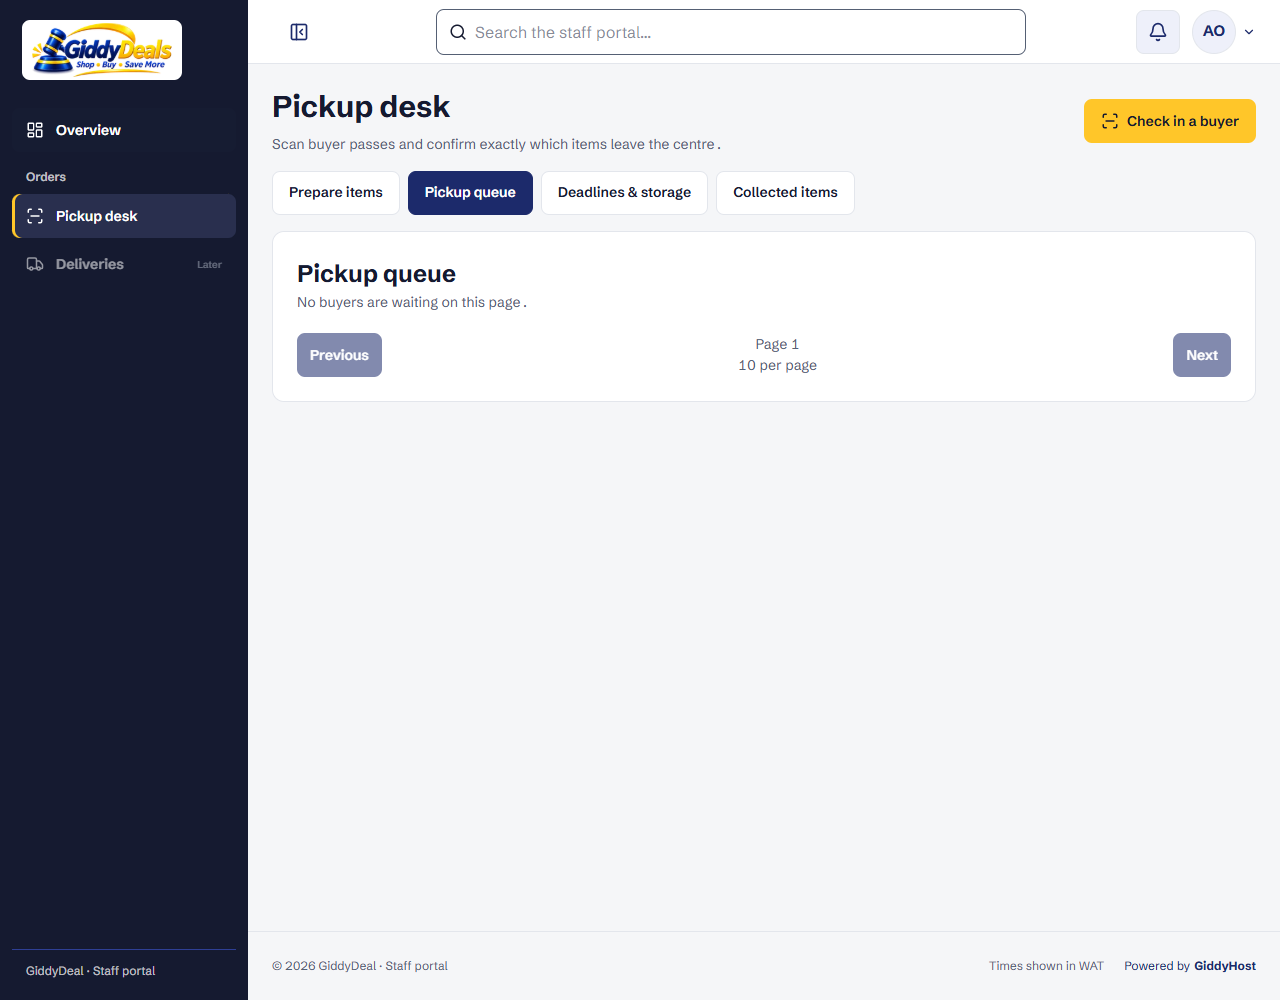
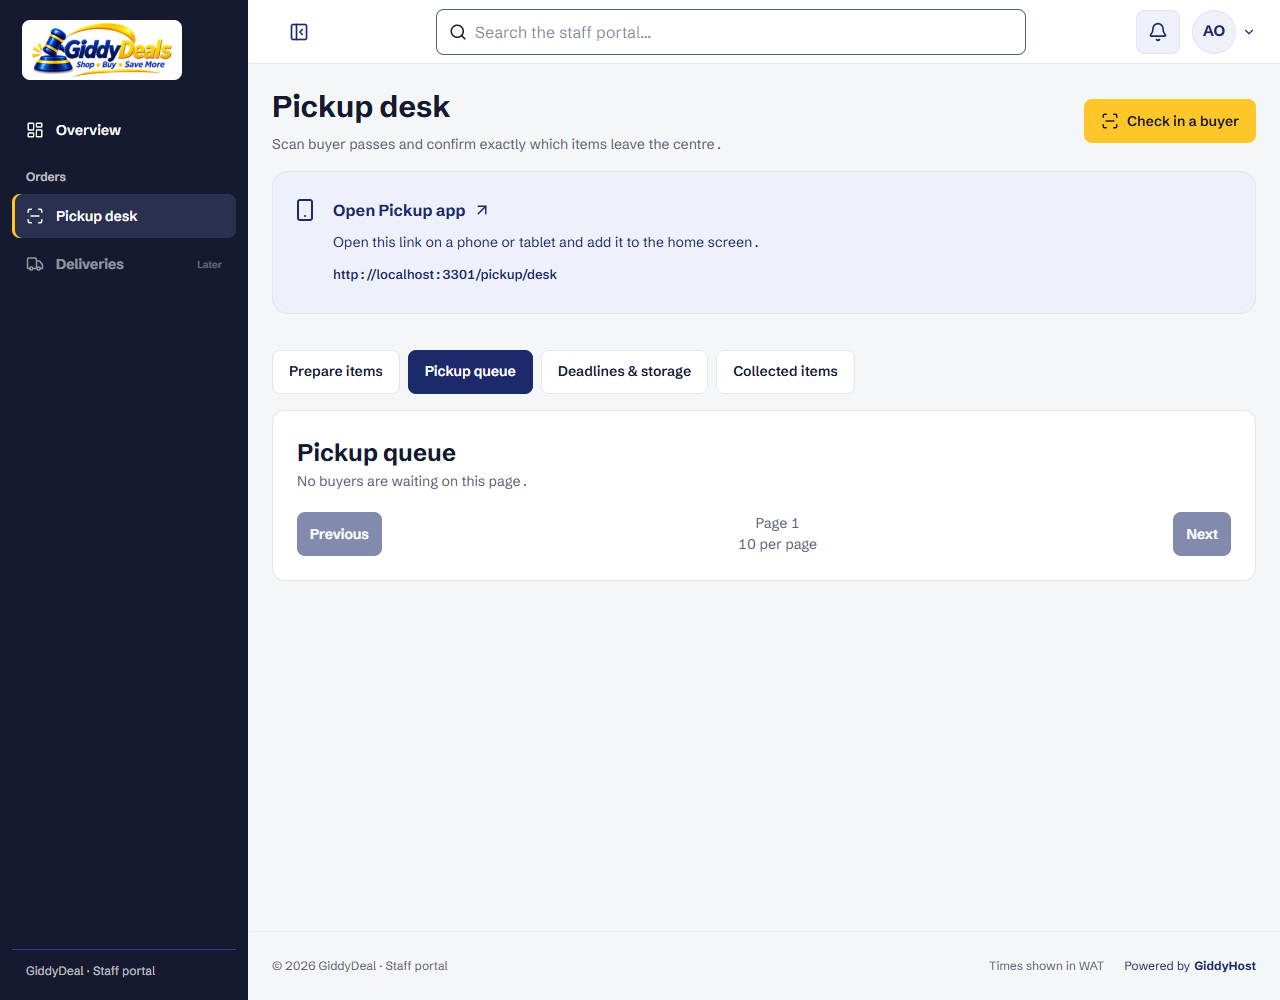
feat(admin): show pickup app link on the pickup desk

diff --git a/packages/ui/admin/pickup-app.css b/packages/ui/admin/pickup-app.css
@@ -1,4 +1,53 @@
 @layer components {
+  .lv-pickup-app-entry {
+    display: flex;
+    gap: 16px;
+    padding: 16px 20px;
+    margin-bottom: 20px;
+    border: 1px solid var(--color-line);
+    border-radius: var(--radius-sheet);
+    background: var(--color-indigo-50);
+    color: var(--color-indigo-900);
+  }
+  .lv-pickup-app-entry > svg {
+    flex-shrink: 0;
+    margin-top: 10px;
+  }
+  .lv-pickup-app-entry > div {
+    min-width: 0;
+  }
+  .lv-pickup-app-entry a {
+    display: inline-flex;
+    align-items: center;
+    gap: 8px;
+    min-height: 44px;
+    font-weight: 700;
+    text-decoration: none;
+    border-radius: var(--radius-control);
+    transition:
+      color 150ms ease,
+      background-color 150ms ease;
+  }
+  .lv-pickup-app-entry a:hover {
+    background: var(--color-indigo-900);
+    color: var(--color-surface);
+  }
+  .lv-pickup-app-entry a:focus-visible {
+    outline: 2px solid var(--color-indigo-700);
+    outline-offset: 3px;
+  }
+  .lv-pickup-app-entry p {
+    margin: 0;
+    font-size: 14px;
+  }
+  .lv-pickup-app-entry .lv-pickup-app-address {
+    display: flex;
+    width: fit-content;
+    max-width: 100%;
+    overflow-wrap: anywhere;
+    font-size: 13px;
+    font-weight: 600;
+  }
   .lv-pickup-app {
     max-width: 800px;
     margin: 0 auto;

diff --git a/packages/ui/admin/pickup-app-link.tsx b/packages/ui/admin/pickup-app-link.tsx
@@ -1,0 +1,27 @@
+'use client';
+import { useEffect, useState } from 'react';
+import { ArrowUpRight, Smartphone } from 'lucide-react';
+
+export function PickupAppLink() {
+  const [address, setAddress] = useState('/pickup/desk');
+  useEffect(() => {
+    setAddress(new URL('/pickup/desk', window.location.origin).href);
+  }, []);
+  return (
+    <aside className="lv-pickup-app-entry" aria-label="Pickup app for phones">
+      <Smartphone size={24} aria-hidden="true" />
+      <div>
+        <a href="/pickup/desk" target="_blank" rel="noopener noreferrer">
+          Open Pickup app <ArrowUpRight size={18} aria-hidden="true" />
+          <span className="sr-only"> (opens in a new tab)</span>
+        </a>
+        <p>
+          Open this link on a phone or tablet and add it to the home screen.
+        </p>
+        <a className="lv-pickup-app-address" href="/pickup/desk">
+          {address}
+        </a>
+      </div>
+    </aside>
+  );
+}

diff --git a/tests/e2e/staff-check-in-dialog.spec.ts b/tests/e2e/staff-check-in-dialog.spec.ts
@@ -326,6 +326,18 @@ for (const width of [360, 768, 1280])
     await expect(
       page.getByRole('heading', { name: 'Pickup queue', exact: true }),
     ).toBeVisible();
+    const appEntry = page.getByRole('complementary', {
+      name: 'Pickup app for phones',
+    });
+    await expect(
+      appEntry.getByRole('link', { name: /Open Pickup app/ }),
+    ).toHaveAttribute('href', '/pickup/desk');
+    await expect(
+      appEntry.getByRole('link', {
+        name: new URL('/pickup/desk', url).href,
+        exact: true,
+      }),
+    ).toBeVisible();
     await expect(
       page.getByRole('heading', { name: 'Check in a buyer', exact: true }),
     ).not.toBeVisible();

diff --git a/apps/admin/app/pickup-arrivals.tsx b/apps/admin/app/pickup-arrivals.tsx
@@ -15,6 +15,7 @@ import { Dialog } from '@auction-ng/ui/web/dialog';
 import { CollectionHistory } from './collection-history';
 import { StaffPickupStorage } from './pickup-storage';
 import { PickupPrepare } from './pickup-prepare';
+import { PickupAppLink } from '@auction-ng/ui/admin/pickup-app-link';
 import {
   WalletNotice,
   WalletPagination,
@@ -44,6 +45,7 @@ export function PickupArrivals(props: {
   ] as const;
   return (
     <>
+      <PickupAppLink />
       <div className="lv-staff-tabs" aria-label="Pickup desk views">
         {tabs.map(([id, label]) => (
           <button

diff --git a/docs/TASKS.md b/docs/TASKS.md
@@ -326,3 +326,5 @@ The admin is built in eight smaller tasks. Every one follows `docs/ADMIN_DESIGN.
 Pickup camera correction (2026-11-26): camera action no longer disappears when browser scanning is unavailable; explain HTTPS/browser requirements and retain code entry. Responsive fallback checks pass at 360/768/1280px. Cross-browser decoder support and physical-device acceptance remain open; T15f is not completed by this correction.
 
 Pickup PWA (2026-11-26): focused /pickup/desk entry, compact staff sign-in, existing queue/checklist and scan/code dialog, install manifest/icons and scoped network-only service worker. Targeted responsive/permission/logout/expiry/install-file checks pass; see docs/specs/pickup-app.md and docs/design/pickup-app/. Physical phone camera and installation require HTTPS acceptance; T15f/T16 remain open.
+
+Pickup app discovery (2026-11-26): Pickup Desk shows an Open Pickup app action, the current staff host's full /pickup/desk address and a phone/tablet home-screen note above its tabs. Targeted responsive link checks pass at 360/768/1280px; no permission or pickup-rule changes.
